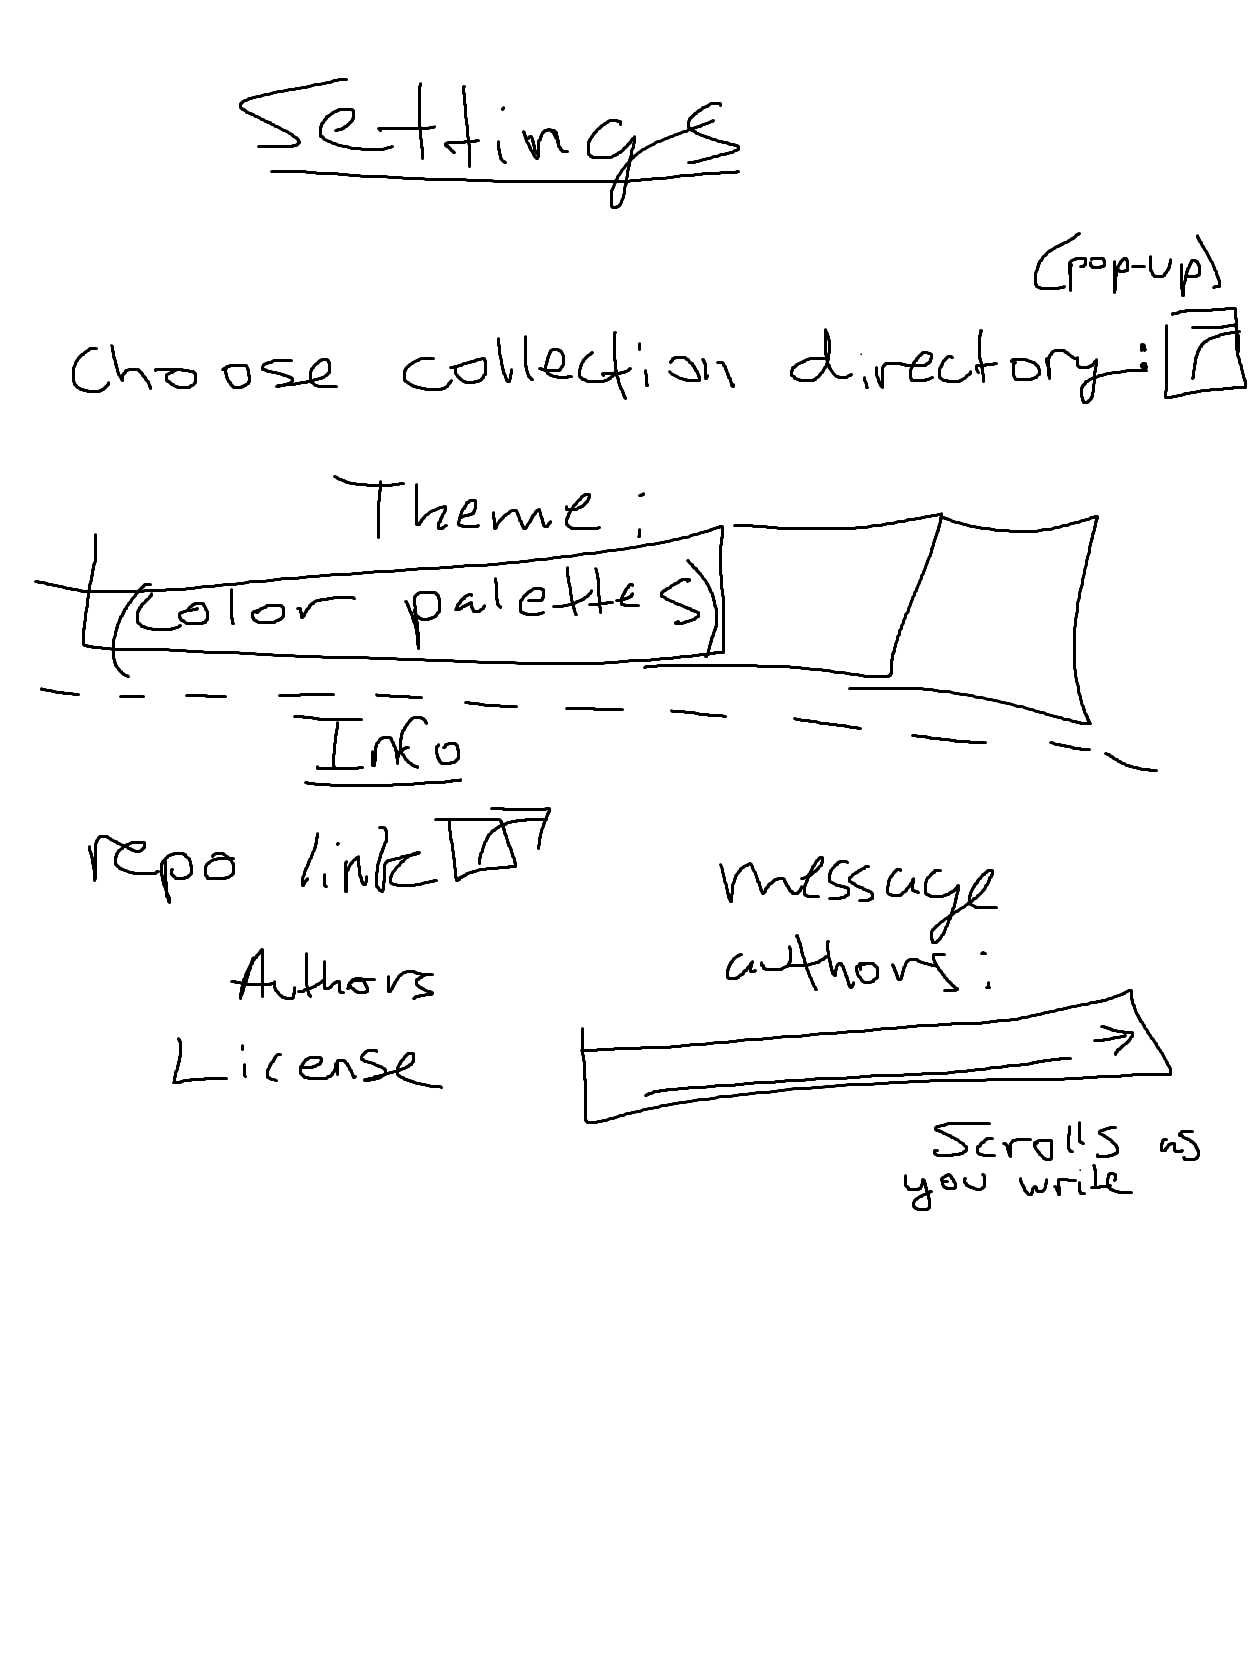
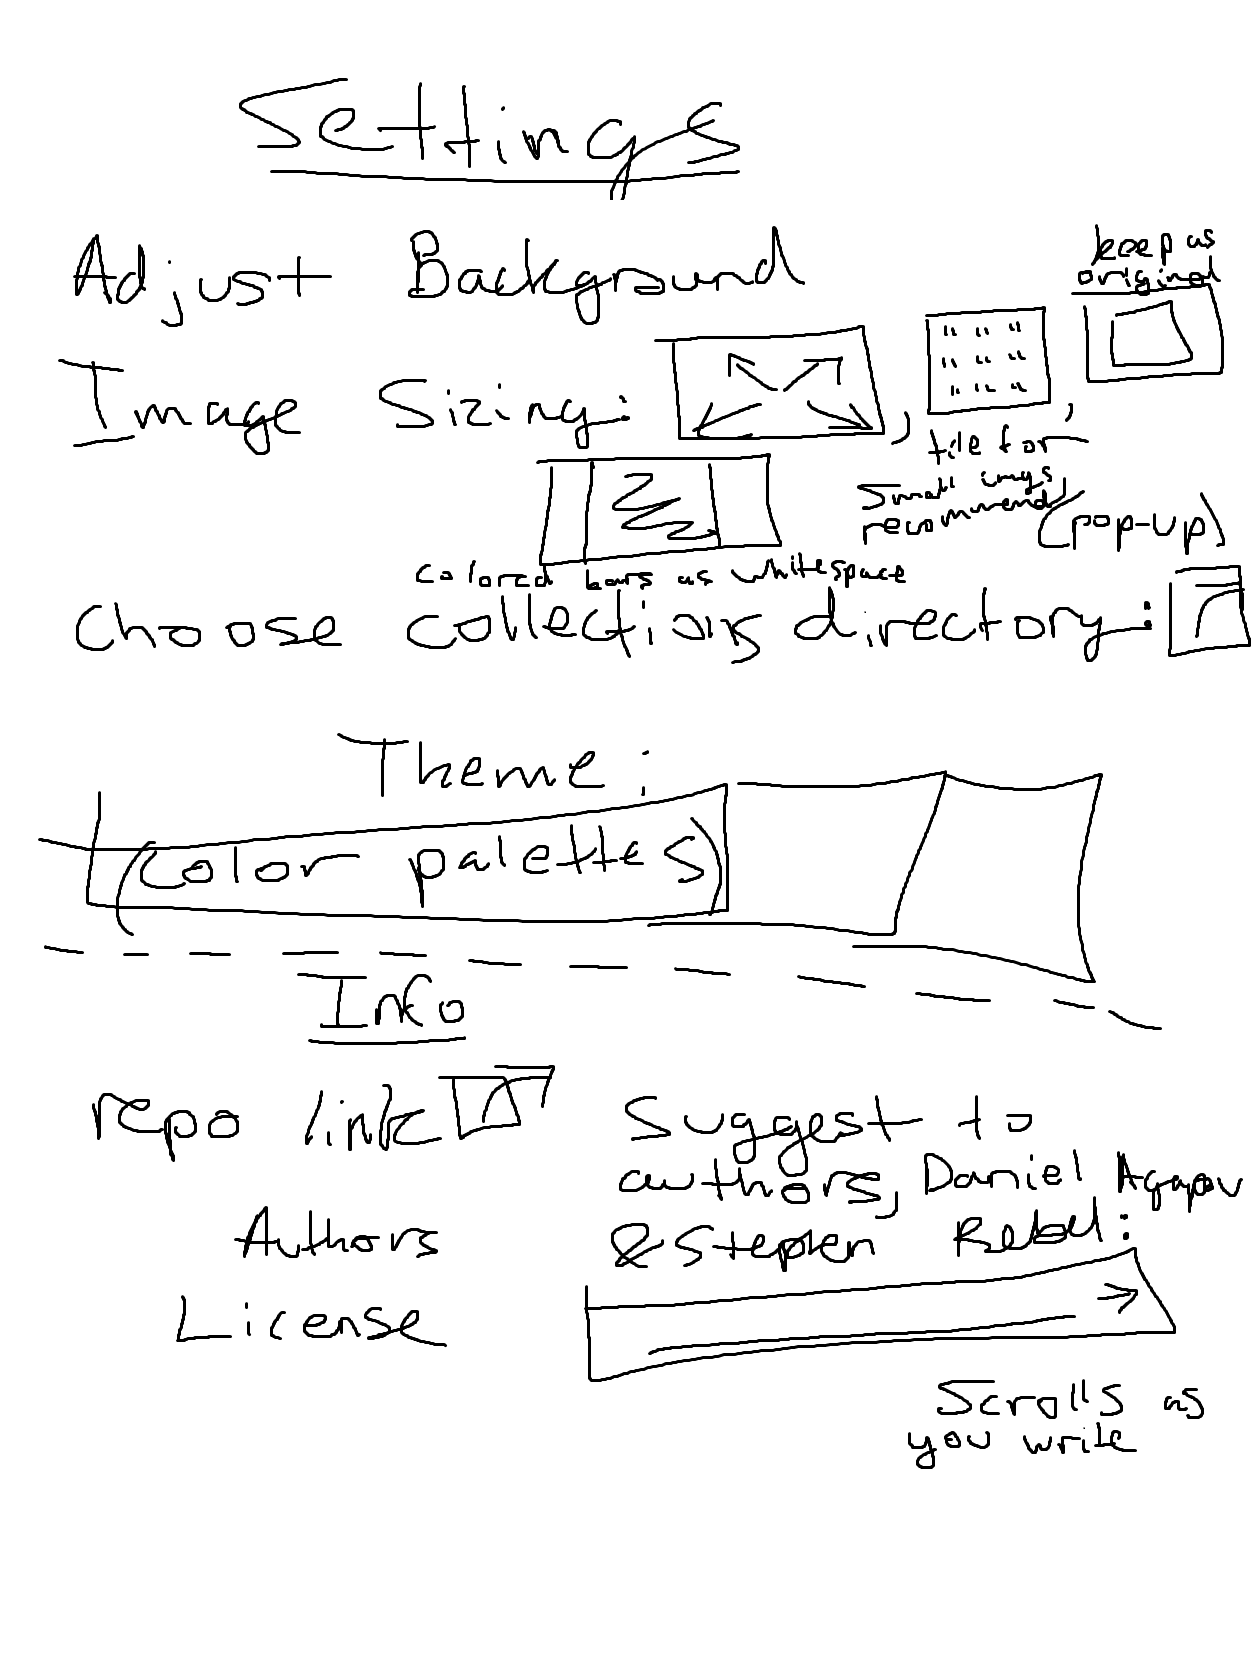
editing requirements, architecture drawings, and ability to select multiple images, made text for selecting img dynamic based on OS

diff --git a/main.py b/main.py
@@ -81,7 +81,7 @@ class main_screen:
         # simple lambda that invokes the info_display function
         self.button = tk.Button(
             self.weather_frame,
-            text="Select Image in File Explorer",
+            text=f"Select Images from {'File Explorer' if win == True else 'Files'}",
             font=("Courier", 40),
             bg="#e5efde",
             command=lambda: main_screen.retrieve_file(self.lower_frame),
@@ -116,13 +116,13 @@ class main_screen:
         else:
             directory = "/Recents"
 
-        name_of_file = filedialog.askopenfilename(
+        names_of_files = list(filedialog.askopenfilenames(
             initialdir=directory,
-            title="Select an Image File",
+            title="Select Image Files",
             filetypes=(
                 (a, "*.png"),
                 (a, "*.jpeg"),
-                (a, "*.jpg*"),  # should be *.jpg
+                (a, "*.jpg*"),
                 (a, "*.gif"),
                 (a, "*.tiff"),
                 (a, "*.psd"),
@@ -131,10 +131,10 @@ class main_screen:
                 (a, "*.indd"),
                 (a, "*.raw"),
             ),
-        )
+        ))
 
-        if name_of_file != "":
-            background_uploaded = ImageTk.PhotoImage(Image.open(name_of_file))
+        if names_of_files != "":
+            background_uploaded = ImageTk.PhotoImage(Image.open(str(names_of_files[0])))
             background_uploaded_label = tk.Label(lower_frame)
             background_uploaded_label.place(relheight=1, relwidth=1)
 
@@ -144,9 +144,9 @@ class main_screen:
     def set_background_uploaded(self):
         if win:
             # self.path = os.path.abspath(os.path.dirname(sys.argv[0]))
-            ctypes.windll.user32.SystemParametersInfoW(20, 0, name_of_file, 0)
+            ctypes.windll.user32.SystemParametersInfoW(20, 0, names_of_files, 0)
         else:
-            app("Finder").desktop_picture.set(mactypes.File(name_of_file))
+            app("Finder").desktop_picture.set(mactypes.File(names_of_files))
 
 
 if __name__ == "__main__":
